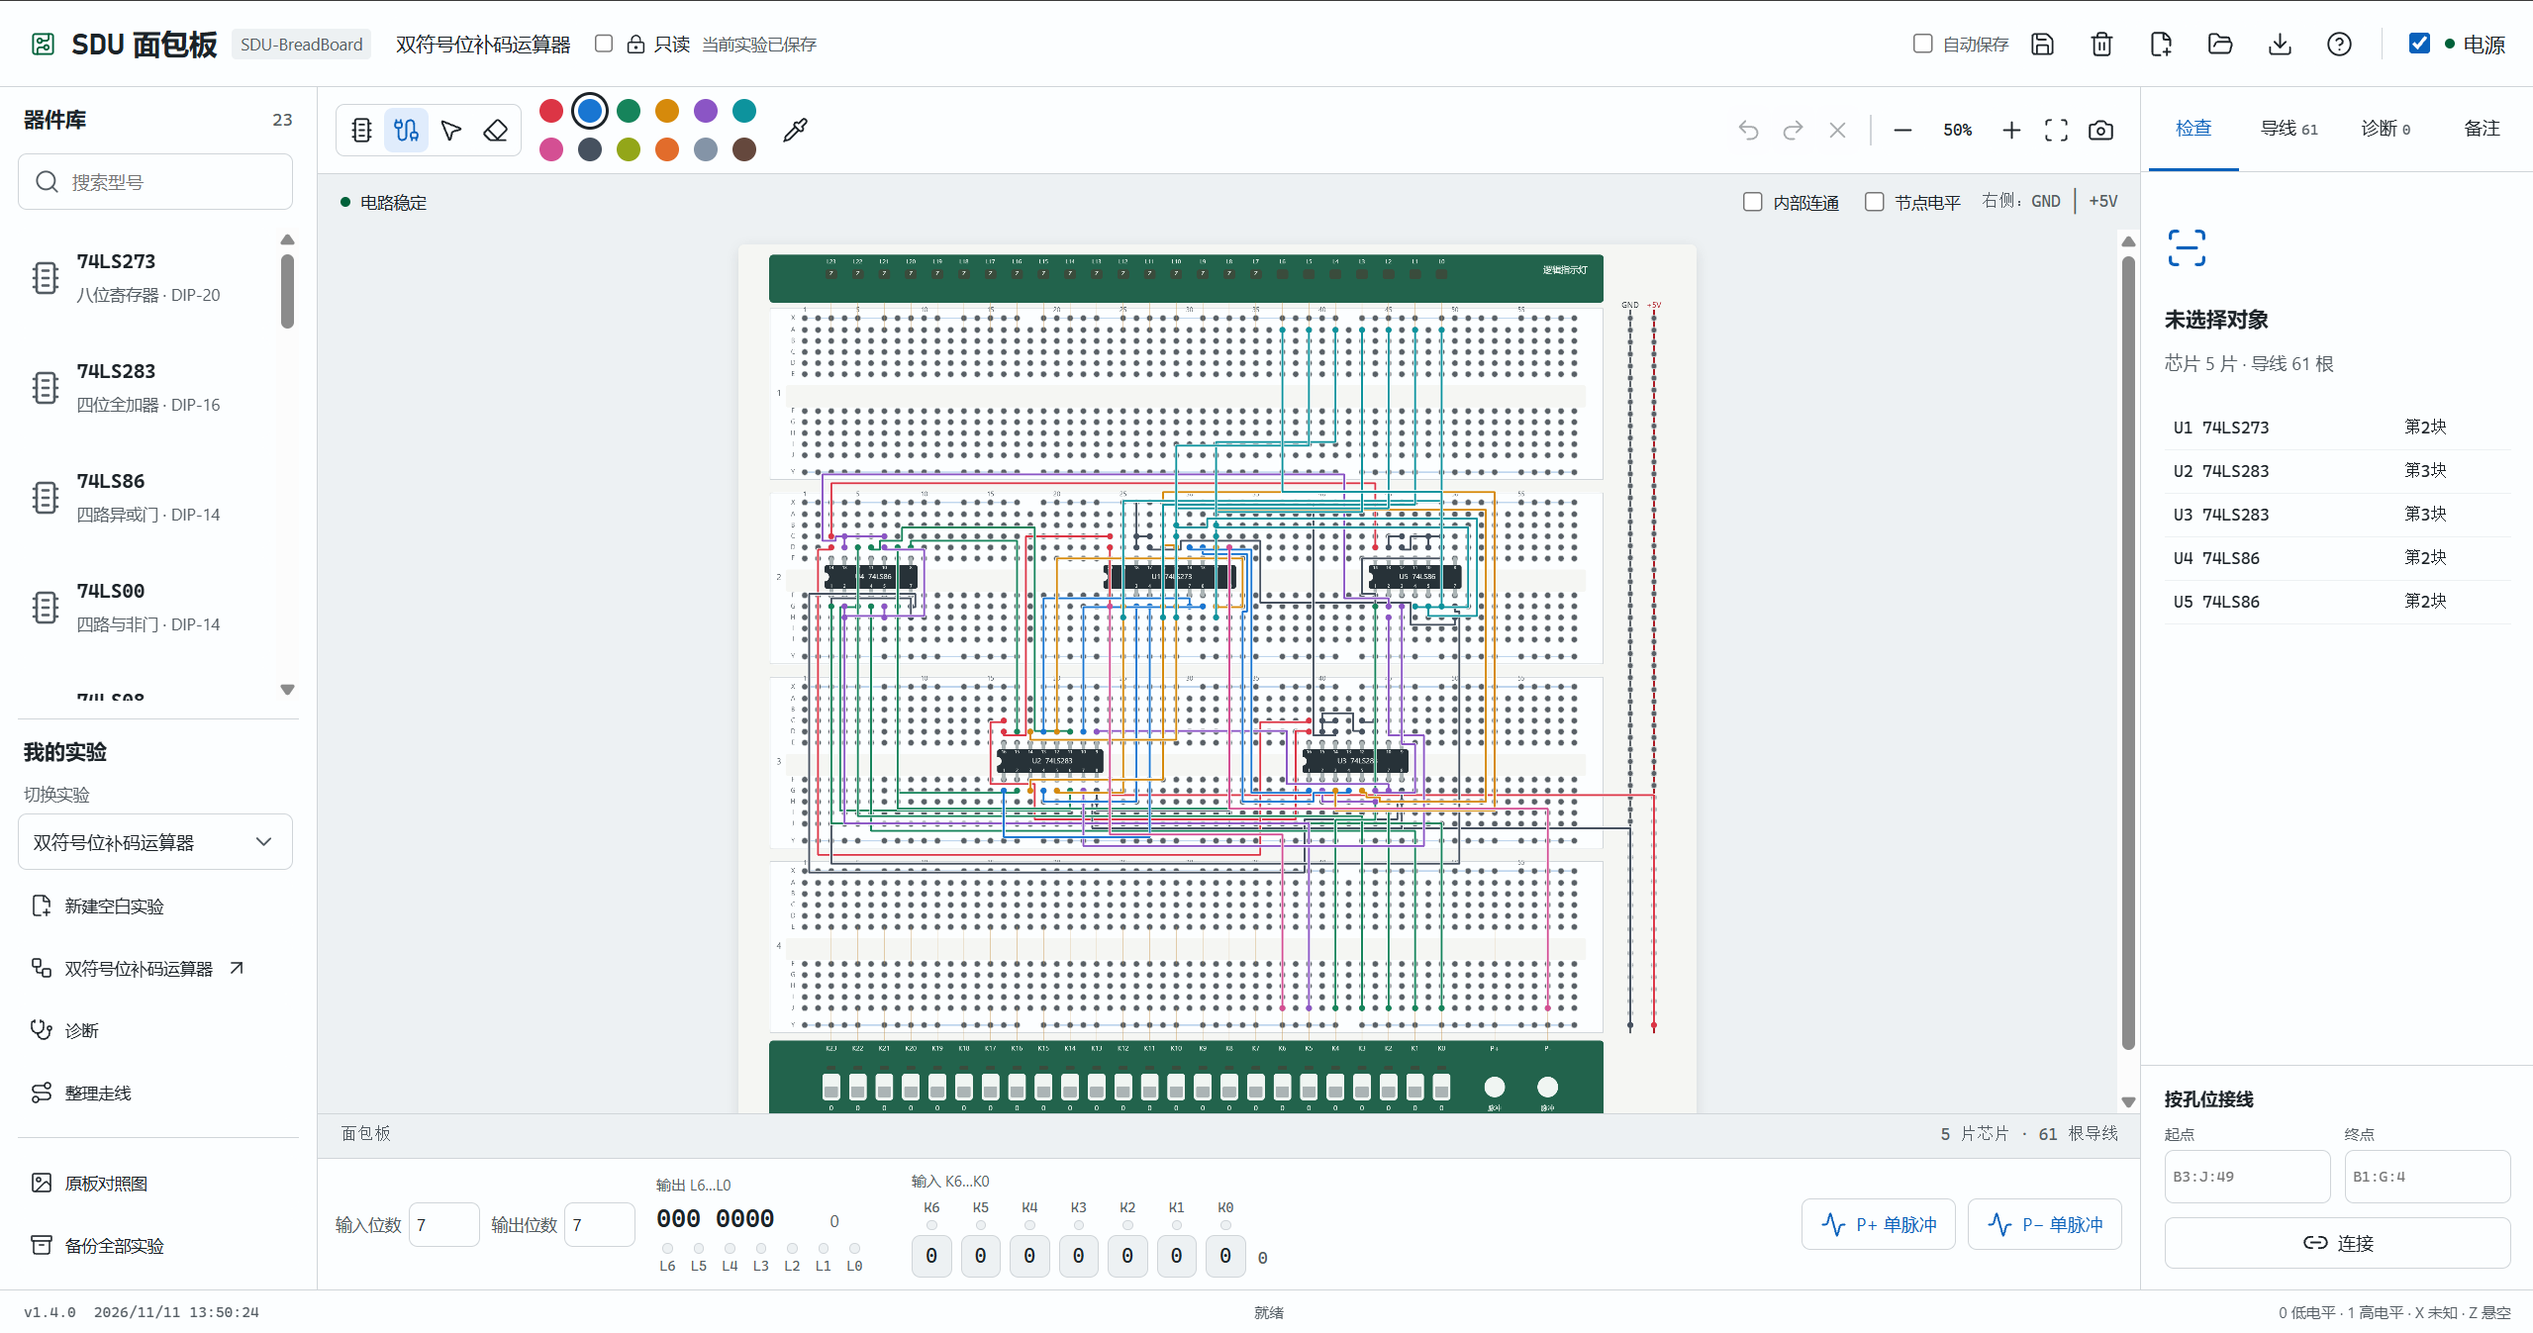
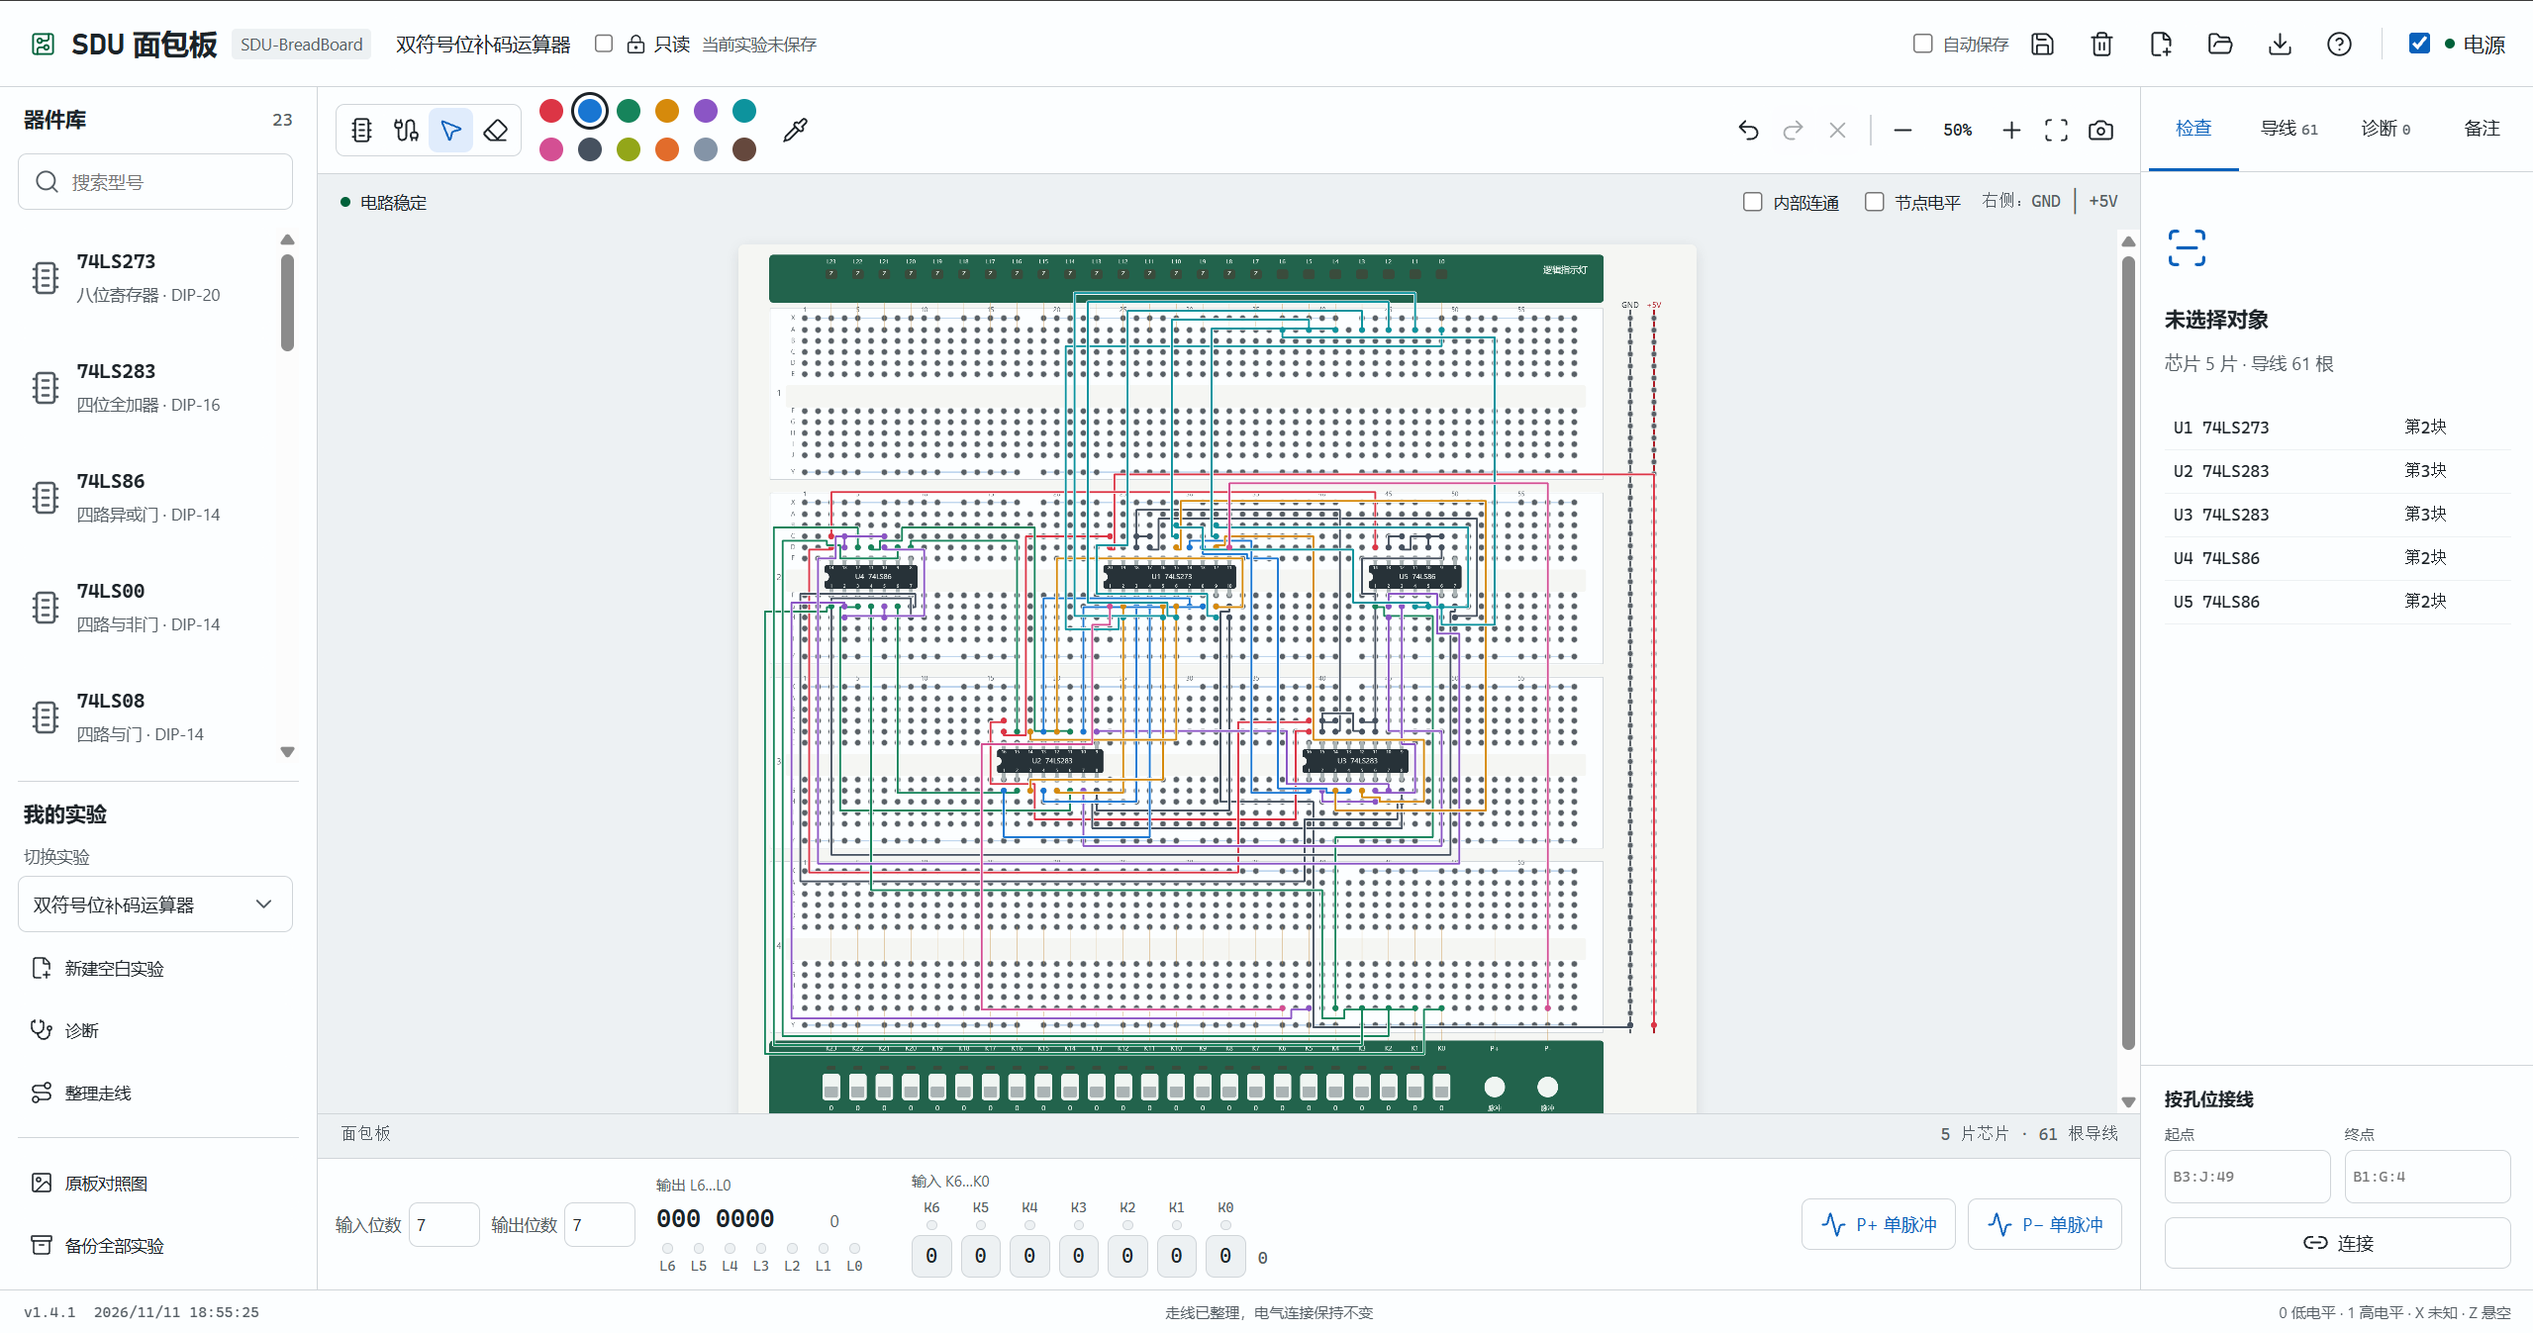
modified:   README.md 	modified:   application.js 	modified:   assets/screenshots/latest.png 	modified:   docs/changelog.md 	modified:   docs/chip-audit.md 	modified:   docs/chip-references.md 	modified:   docs/configuration.md 	modified:   docs/user-guide.md 	modified:   index.html 	modified:   pac

diff --git a/application.js b/application.js
@@ -9228,7 +9228,7 @@ Please report this to https://github.com/markedjs/marked.`, e) {
   }
 
   // src/version.mjs
-  var APP_VERSION = "1.4.0";
+  var APP_VERSION = "1.4.1";
   var CLOCK_SETTINGS = { timeZone: "Asia/Shanghai", hour12: false, year: "numeric", month: "2-digit", day: "2-digit", hour: "2-digit", minute: "2-digit", second: "2-digit" };
 
   // src/app.mjs
@@ -10290,26 +10290,6 @@ Please report this to https://github.com/markedjs/marked.`, e) {
     commit();
     renderLibrary();
   }
-  function loadPreset() {
-    keepExperiment(workspace, activeExperiment, state.project);
-    for (const id of Object.keys(workspace.projects)) {
-      if (workspace.projects[id].name === "\u53CC\u7B26\u53F7\u4F4D\u8865\u7801\u8FD0\u7B97\u5668" && restorePresetRoutes(copyProject(workspace.projects[id]))) {
-        activeExperiment = id;
-        state.project = copyProject(workspace.projects[id]);
-        resetRuntime();
-        calculate(false);
-        render();
-        return;
-      }
-    }
-    activeExperiment = newExperimentId();
-    state.project = complementPreset();
-    resetRuntime();
-    state.undo = [];
-    state.redo = [];
-    commit();
-    renderLibrary();
-  }
   function renameProject(event) {
     if (editingLocked()) {
       render();
@@ -11262,7 +11242,6 @@ Please report this to https://github.com/markedjs/marked.`, e) {
     window.addEventListener("blur", releasePulseButton);
     element("power-toggle").addEventListener("change", changePower);
     element("new-project").addEventListener("click", newProject);
-    element("load-preset").addEventListener("click", loadPreset);
     element("export-project").addEventListener("click", exportProject);
     element("import-project").addEventListener("click", chooseImport);
     element("import-file").addEventListener("change", importProject);

diff --git a/index.html b/index.html
@@ -36,7 +36,6 @@
                 <h2>我的实验</h2>
                 <label class="experiment-picker-label" for="experiment-picker">切换实验</label><select id="experiment-picker" aria-label="切换实验"></select>
                 <button id="new-experiment" class="preset-button"><i data-lucide="file-plus-2" aria-hidden="true"></i><span>新建空白实验</span></button>
-                <button id="load-preset" class="preset-button"><i data-lucide="workflow" aria-hidden="true"></i><span>双符号位补码运算器</span><i data-lucide="arrow-up-right" aria-hidden="true"></i></button>
                 <button id="diagnose-circuit" class="preset-button"><i data-lucide="stethoscope" aria-hidden="true"></i><span>诊断</span></button>
                 <button id="arrange-wires" class="preset-button"><i data-lucide="route" aria-hidden="true"></i><span>整理走线</span></button>
             </section>

diff --git a/docs/chip-audit.md b/docs/chip-audit.md
@@ -1,11 +1,5 @@
 # 芯片核查报告
 
-## 结论
-
-本次核查覆盖当前器件库的 23 种芯片。核心数字逻辑已按下表验证，发现的逻辑错误已在 v1.3.3 修正；74LS20、74LS85、74LS112、74LS194 保留材料版脚号，与 TI 标准 DIP 封装的差异会在资料面板显示
-
-这份报告区分三件事：芯片的数字逻辑行为、脚号来源，以及模拟器没有计算的电气和时间特性。通过数字逻辑测试不等于完成了模拟电路或实物器件的全部验证
-
 ## 已修复
 
 | 项目 | 原问题 | 修正与验证 |
@@ -13,9 +7,9 @@
 | 74LS48 字形 | 数字 6、9 使用了另一种七段字体 | 按 TI LS48 的 T2 表改为 6 不亮 a 段、9 不亮 d 段，核对全部 16 种字形和 128 种控制组合 |
 | 74LS48 输出结构 | 段输出按推挽处理，BI/RBO 开路时未使用内部弱上拉 | 高段由内部弱上拉提供，低段下拉；供电时 BI/RBO 开路为高，芯片断电时不驱动，外部灭灯与级联灭零均可恢复 |
 | 74LS160 | 并行装入 10～15 后按普通二进制递增 | 按原厂状态图恢复：10→11→4，12→13→4，14→15→0；这些非法 BCD 状态不产生 RCO |
-| 74LS112、CD4027 | 上电未知状态下，明确的 J/K 置位或复位仍得到 X | 有效边沿下 J=1、K=0 得 1，J=0、K=1 得 0，不依赖旧值是否已知 |
-| 时序保持 | 时钟未知时，即使计数禁止或移位保持也会抹掉已知状态 | 明确禁止计数或保持移位时保留原值；结果无法确定时仍使用 X |
-| 74LS283 | 部分已经能确定的进位被未知输入扩大为 X | 进位使用三项多数逻辑，不影响二值加法结果 |
+| 74LS112、CD4027 | 上电未知状态下，明确的 J/K 置位或复位仍得到 X | 有效边沿下 J=1、K=0 得 1，J=0、K=1 得 0 |
+| 时序保持 | 时钟未知时，即使计数禁止或移位保持也会抹掉已知状态 | 明确禁止计数或保持移位时保留原值，结果无法确定时仍使用 X |
+| 74LS283 | 部分已经能确定的进位被未知输入扩大为 X | 进位使用三项多数逻辑 |
 | 74LS85 | 高位已能判定大小时，低位未知仍让全部输出变为 X | 从最高位向下比较，已确定的高位关系不依赖低位 |
 | 引脚类型与诊断 | NC 在资料表中显示为输入，双向脚显示为单纯输出 | 分别标为 NC 与输入/输出；异步置位和清零同时有效时增加警告 |
 
@@ -47,11 +41,9 @@
 | 74LS273 | 全部 256 种八位数据、上升沿保存、保持、异步清零 | 原厂 DIP |
 | 74LS283 | 全部 512 种二值输入、进位与未知输入传播 | 原厂 DIP |
 
-所有型号还检查了供电和断电输出。完整补码示例继续通过 4096 种运算组合，并检查两个符号位及独立溢出指示
+所有型号还检查了供电和断电输出
 
 ## 材料版脚号
-
-你此前要求按材料实现且不替换已有型号，因此这次保留以下映射，同时在界面醒目标注
 
 | 型号 | 当前材料版 | TI 标准 DIP |
 | --- | --- | --- |
@@ -60,20 +52,20 @@
 | 74LS112 | 第二路 Q=7、Q′=9 | 第二路 Q=9、Q′=7 |
 | 74LS194 | CP=2，SR=3，SL=11，并行输入=4～7，QA～QD=12～15 | CP=11，SR=2，SL=7，并行输入=3～6，QA～QD=15～12；模式脚仍为 9、10 |
 
-这四种材料版模型不能直接当成标准 TI DIP 的实物接线图，实物实验请使用对应厂家的引脚表
+实物实验请使用对应厂家的引脚表
 
 ## 模型边界
 
-- 电源按逻辑高低处理，没有计算 TTL/CMOS 门限、负载电流、扇出、功耗或电阻值，因此不能用于判断器件能否直接驱动某个实际负载
-- CMOS 器件在本板上按 5V 数字逻辑工作，没有模拟不同供电电压下的行为
-- 时钟采用离散边沿，没有模拟传播延迟、毛刺、按键抖动、建立保持时间、亚稳态或模拟振荡
-- X 表示模型无法确定，Z 表示没有驱动；未知控制组合按保守方式传播，不保证所有未知组合都能推导出最精确的部分已知结果
-- 异步置位和清零同时有效时按资料表显示双高并给出警告，同时释放后的状态不能当作确定数据使用
-- 74LS48 的内部上拉仅表示弱驱动优先级，没有模拟真实的 2kΩ 电阻与电流
+- 电源按逻辑高低处理
+- CMOS 器件在本板上按 5V 数字逻辑工作，暂未模拟不同供电电压下的行为
+- 时钟采用离散边沿，暂未模拟传播延迟、毛刺、按键抖动、建立保持时间、亚稳态或模拟振荡
+- X 表示模型无法确定，Z 表示没有驱动；未知控制组合按保守方式传播
+- 异步置位和清零同时有效时按资料表显示双高并给出警告
+- 74LS48 的内部上拉仅表示弱驱动优先级，暂未模拟真实的 2kΩ 电阻与电流
 
 ## 资料与复现
 
-本次比对了用户提供的芯片合集及以下厂家资料，原始材料和原有 PDF 未修改
+本次比对了用户提供的芯片合集及以下厂家资料
 
 - [TI CD4027B](https://www.ti.com/lit/ds/symlink/cd4027b.pdf)：第 9 页功能表
 - [TI SN74LS47/48/49 共用手册](https://www.ti.com/lit/ds/symlink/sn74ls47.pdf)：第 2 页输出结构、第 4 页 LS48 T2 表

diff --git a/docs/chip-references.md b/docs/chip-references.md
@@ -1,8 +1,8 @@
-# 芯片资料与接线核对
+# 部分芯片资料
 
 ## 引脚图来源
 
-你在芯片介绍前部看到的图片，均从以下 TI 原厂数据手册裁切。每张图保留完整 DIP 脚号和信号名称，点击图片可以放大，点击手册链接可以查看原页
+你在芯片介绍前部看到的图片均从以下 TI 原厂数据手册裁切。每张图保留完整 DIP 脚号和信号名称
 
 | 芯片 | 原厂资料 | 引脚图页码 |
 | --- | --- | --- |
@@ -14,18 +14,8 @@
 | 74LS32 | [SN74LS32](https://www.ti.com/lit/ds/symlink/sn74ls32.pdf) | 1 |
 | 74LS04 | [SN74LS04](https://www.ti.com/lit/ds/symlink/sn74ls04.pdf) | 1 |
 
-原厂图是缺口朝上的顶视图，画布为了横跨面包板沟槽，将芯片转为缺口朝左。旋转只改变显示方向，脚号和连接关系保持不变
+## 核对当前实验
 
-74LS273 原厂按 1D～8D、1Q～8Q 命名，界面沿用课程材料的 D0～D7、Q0～Q7，物理脚号一致。74LS86A 的 DIP 脚号与课程材料中的 74LS86 一致。74LS00 的第 9、10 脚分别为 3B、3A，第 12、13 脚分别为 4B、4A，界面已按原厂图标注
-
-## 补码实验标准接法
-
-标准示例使用 1 片 74LS273、2 片 74LS283、2 片 74LS86，保存两个符号位和四个数值位。输入取反控制与最低位加一共用 K5，数值位进位接入符号位加法器。两个结果符号位分别保存和反馈，LED 从寄存器输出取值
-
-原材料要求的清零、手动加载、双符号位及两组验收数据均已纳入测试。完整接线还会穷举 4096 种累加值、输入值和加减控制组合
-
-## 核对你当前的实验
-
-点击左侧“诊断”查看当前电路的供电、输入、驱动冲突、短路与时序状态，右侧按芯片列出结果。诊断不与某个标准示例比对，也不改变输入、接线或寄存器状态
+点击左侧“诊断”可查看当前电路的供电、输入、驱动冲突、短路与时序状态，右侧按芯片列出结果
 
 输入输出板上的细线表示板内固定连接，不是可插拔导线。K、P 信号接第四块面包板对应列的 A～J，上下五孔组通过细线桥接，L 信号只接最上块对应列的 A～E。接线检查按这一连通关系计算，X、Y 母线仍与普通五孔列分开

diff --git a/docs/configuration.md b/docs/configuration.md
@@ -1,6 +1,6 @@
 # 参数位置
 
-可配置参数放在所属模块的导入语句之后，参数旁注明作用与单位。修改参数后运行 `npm run build`，让离线页面使用新的配置
+修改参数后运行 `npm run build`，以让离线页面使用新的配置
 
 | 文件 | 参数内容 |
 | --- | --- |
@@ -20,6 +20,4 @@
 | `scripts/build.mjs`、`scripts/route-preset.mjs`、`scripts/wiring-guide.mjs` | 构建输出、示例路径和接线文档位置 |
 | `scripts/package.ps1` | 离线包文件列表、输出目录、命名和压缩方式 |
 
-芯片物理脚号、真值表和示例电气连接属于固定设计数据，前置整理不意味着可以任意更改。调整孔距、端口或芯片参数后，需要运行逻辑测试与浏览器测试
-
-生成的 `application.js`、示例 JSON 和第三方依赖不手工调整，普通循环起点、布尔值和空值仍放在原逻辑中
+芯片物理脚号、真值表和示例电气连接属于固定设计数据

diff --git a/docs/changelog.md b/docs/changelog.md
@@ -4,8 +4,10 @@
 
 小改动增加补丁号，例如 1.0.0 → 1.0.1；大改动增加次版本号，例如 1.0.1 → 1.1.0；大规模重构增加主版本号，例如 1.1.0 → 2.0.0。版本号以 `src/version.mjs` 和 `package.json` 为准
 
-## v1.4.0 · 2026-11-11
+## v1.4.1 · 2026-11-11
 
+- 搜索框的焦点边框包住图标和输入区，并与实验选择框对齐
+- 移除“我的实验”中的“双符号位补码运算器”快捷入口，保留已有实验和示例文件
 - 左侧“核对当前实验接线”替换为“诊断”，不再将任意实验与加法器示例比较
 - 按芯片列出供电、输入、电平冲突、短路、OC上拉及离散时序状态，关电时也可发现电源轨短接
 - 诊断不改变输入、接线或寄存器状态，支持只读模式，接线和输入变化后自动更新

diff --git a/docs/user-guide.md b/docs/user-guide.md
@@ -1,6 +1,6 @@
 # SDU 面包板使用说明
 
-项目位于 `D:\RJGC\SDU-BreadBoard`。你可以双击根目录的 `index.html` 离线使用
+你可以双击根目录的 `index.html` 离线使用
 
 你可以在左侧“我的实验”中新建空白实验，或切回之前保存的实验。每份实验都有自己的接线、输入状态和 Markdown 备注
 
